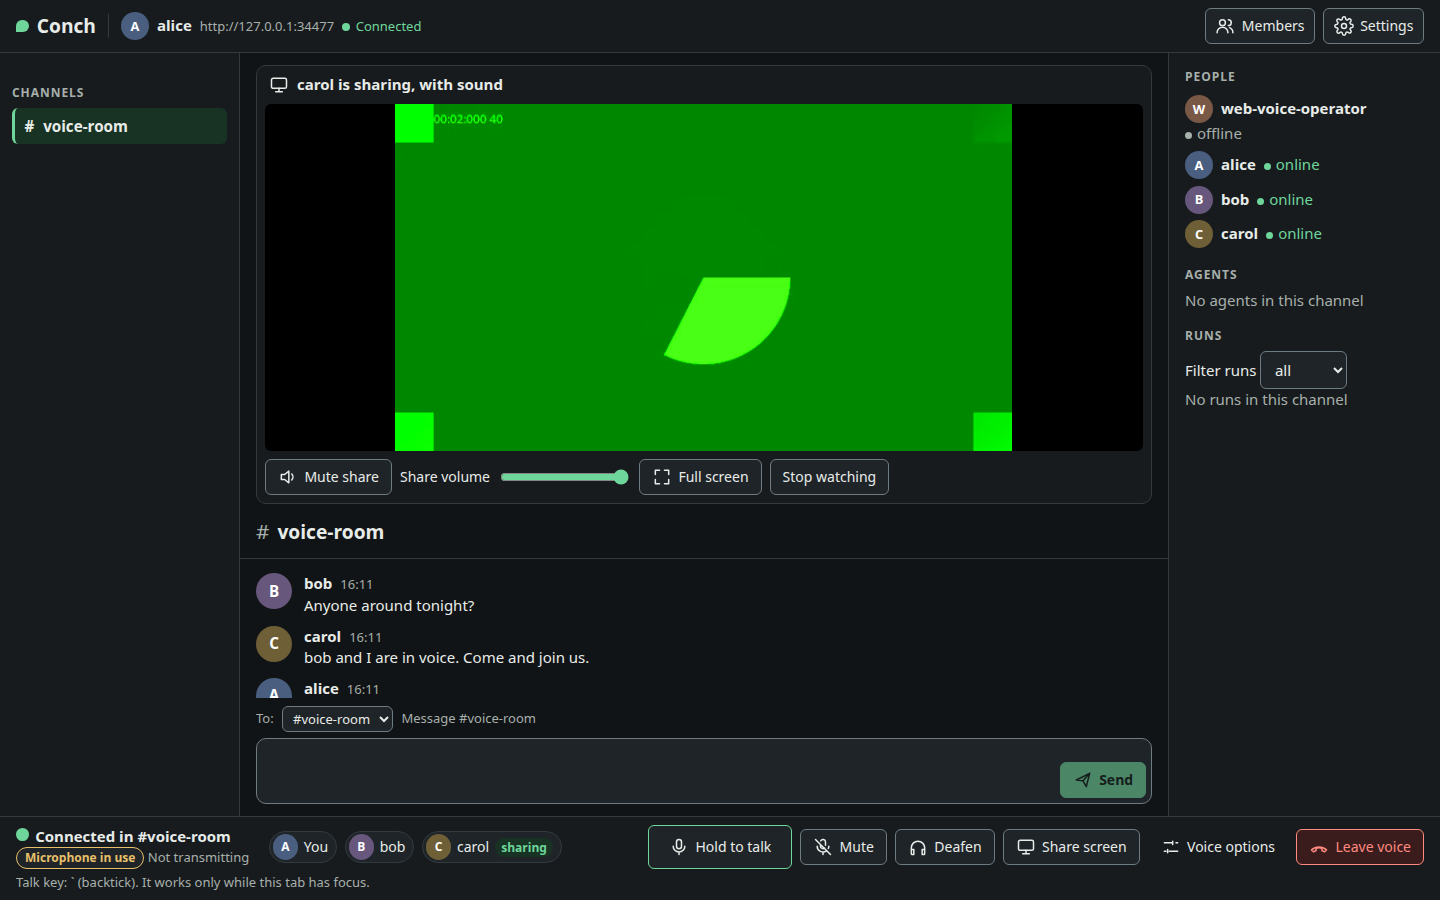
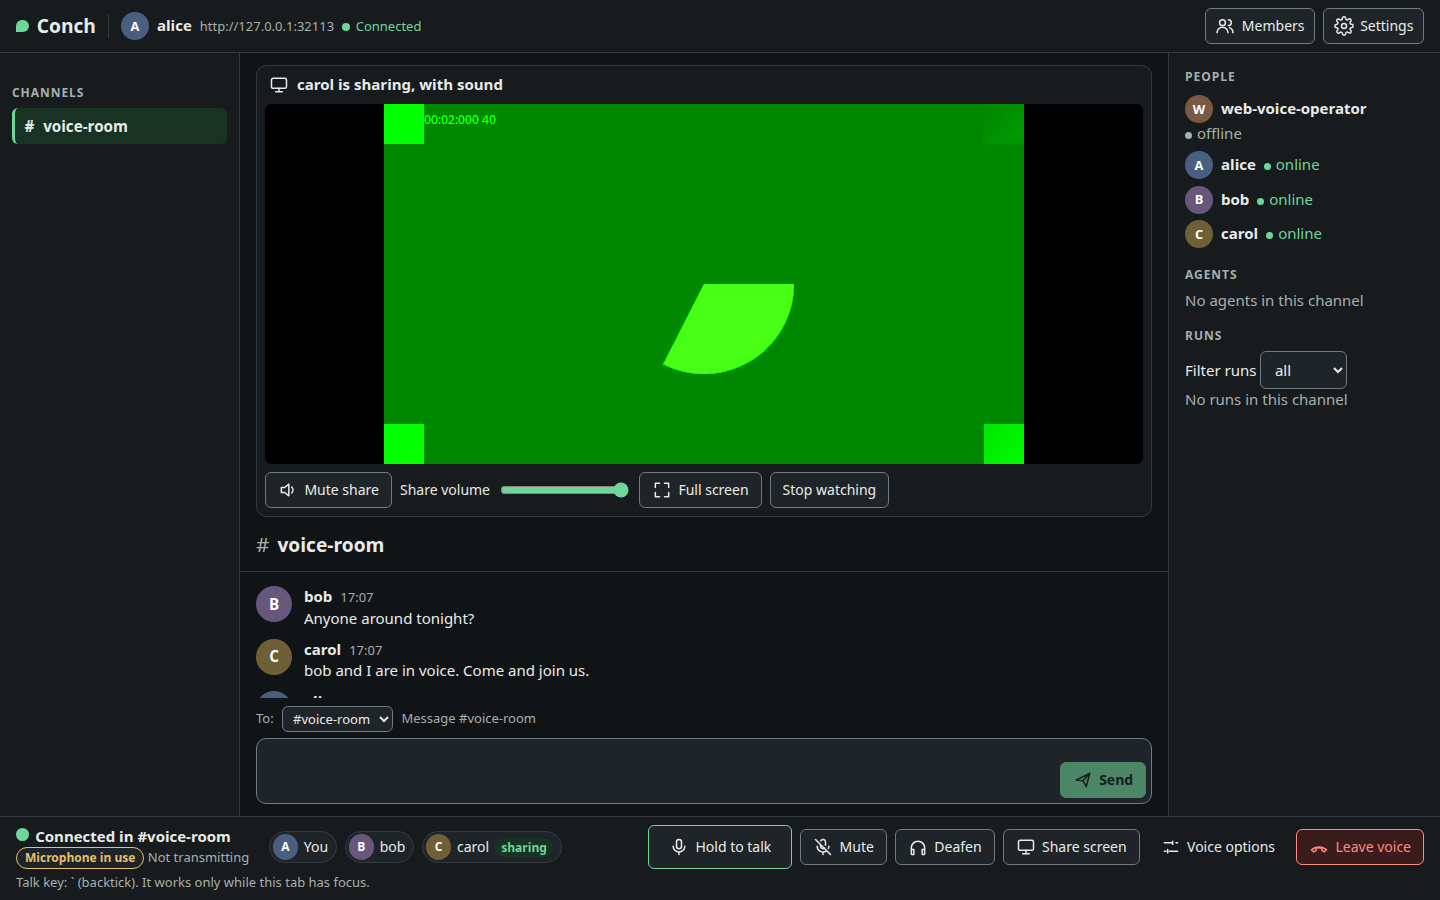
issue #536: the conversation keeps its measured height while watching; the picture gives way
CI's fonts wrapped the share controls and voice strip taller than the
fixed --stage-reserve allowed, so at 360x740 the strip covered the
composer. While a share is watched the centre column is now a two-row
grid: the conversation's minimum is what its header, log minimum and
composer measure, and the stage takes the rest, its picture shrinking to
3rem and the stage scrolling below that. No fixed reserve remains.

diff --git a/web/src/app.css b/web/src/app.css
@@ -37,9 +37,6 @@
   --s6: 2rem;
   --radius-sm: 6px;
   --radius: 10px;
-  /* The height the watch view leaves for its own controls and for the
-     conversation under it: the header, a few messages and the composer. */
-  --stage-reserve: 26rem;
   color-scheme: dark;
 }
 
@@ -540,8 +537,6 @@ label {
   /* Should the stage and the conversation not both fit, the column scrolls:
      nothing is ever drawn under the voice strip. */
   overflow-y: auto;
-  /* The watch view's picture is sized to what is left of this column. */
-  container-type: size;
 }
 
 .conversation {
@@ -787,6 +782,8 @@ label {
 
 .log {
   flex: 1;
+  /* Its messages never make the column taller: it scrolls instead. */
+  contain: size;
   overflow-y: auto;
   padding: var(--s2) var(--s2) var(--s3);
 }
@@ -1330,17 +1327,41 @@ label {
 }
 
 /* Screen share (issue #444): the watch view, on the stage above the
-   conversation. The picture is never wider than its column and leaves room
-   for the conversation, and fills the screen when made full screen. */
+   conversation. The picture is never wider than its column, and fills the
+   screen when made full screen.
+
+   While a share is watched the centre column is two rows: the conversation
+   gets at least what its header, a few lines and the composer need, whatever
+   the fonts make that, and the stage gets the rest, its picture shrinking to
+   fit (issue #536). Nothing is reserved by a fixed height. */
+.centre:has(> .stage:not(:empty)) {
+  display: grid;
+  grid-template-rows: minmax(0, auto) minmax(min-content, 1fr);
+}
+
 .stage:empty {
   display: none;
 }
 
 .stage {
+  display: flex;
+  flex-direction: column;
+  min-height: 0;
+  /* With very little room the picture is as small as it goes; the stage then
+     scrolls, so its controls are still reachable. */
+  overflow-y: auto;
   padding: var(--s3) var(--s4) 0;
 }
 
+/* Its title and controls keep their height; the picture's row gives way,
+   down to 4rem. */
 .share-view {
+  display: grid;
+  flex: 0 1 auto;
+  grid-template-rows: auto minmax(3rem, 1fr);
+  grid-auto-rows: auto;
+  /* It may be shorter than its picture: the picture's row is what gives. */
+  min-height: 0;
   padding: var(--s2);
   background: var(--surface);
   border: 1px solid var(--border);
@@ -1362,6 +1383,7 @@ label {
 
 .share-frame {
   position: relative;
+  min-height: 0;
   background: #000000;
   border-radius: var(--radius-sm);
   overflow: hidden;
@@ -1370,7 +1392,8 @@ label {
 .share-frame video {
   display: block;
   width: 100%;
-  max-height: min(55vh, max(5rem, calc(100cqh - var(--stage-reserve))));
+  height: 100%;
+  max-height: 40vh;
   object-fit: contain;
 }
 
@@ -1641,10 +1664,6 @@ label {
     min-width: 0;
   }
 
-  :root {
-    --stage-reserve: 16rem;
-  }
-
   /* While a share is watched on a phone, the picture, a few lines of the
      conversation and the composer share the column: the channel's name is
      already in the row above, so its heading is only read out. */
@@ -1705,10 +1724,6 @@ label {
   .lobby {
     height: auto;
     min-height: 100vh;
-  }
-
-  .centre {
-    container-type: normal;
   }
 
   .share-frame video {

diff --git a/docs/design/browser-ui-polish.md b/docs/design/browser-ui-polish.md
@@ -50,7 +50,7 @@ illustrative, and none of them is reproduced.
 
 | Element | Now | Why |
 | --- | --- | --- |
-| Large stage, "X is sharing", stream volume, full screen | The watch view on the stage at the top of the centre column: who is sharing (and whether with sound), the picture, Mute share, Share volume, Full screen, Stop watching | Same controls as #444. The picture is sized to leave the conversation a header, a few messages and the composer. |
+| Large stage, "X is sharing", stream volume, full screen | The watch view on the stage at the top of the centre column: who is sharing (and whether with sound), the picture, Mute share, Share volume, Full screen, Stop watching | Same controls as #444. The picture gives way first: the conversation keeps what its header, a few lines and the composer need. |
 | "1080p" badge | Not shown | The client does not know the layer it receives. |
 | Compact participant strip | The roster chips | — |
 | Chat beside the stage | The conversation below the stage; the members column where it was | The image's right column is captions, a later feature. |
@@ -62,7 +62,7 @@ illustrative, and none of them is reproduced.
 | --- | --- |
 | 1100 px and wider | Top bar; channels (15rem), the centre, members (17rem; Members folds it away); the voice strip across the bottom. Each column scrolls on its own; the page does not. |
 | 700 to 1099 px | Channels and the centre. Members opens a panel over the right side (UX-22: the right panel goes first). |
-| Below 700 px | One column. The channels are one row under the top bar that scrolls sideways within itself, so the open channel stays in sight and one tap opens another. The top bar's and the strip's buttons show icons, their names hidden on screen but still read out; Send likewise. Stop sharing and Leave voice keep their words. Voice options, open, scroll inside the strip (at most 40% of the height). While a share is watched, the channel heading is read out only (the row above names the channel) and the picture shrinks first, so the composer stays on screen at 390×844 and 360×740. |
+| Below 700 px | One column. The channels are one row under the top bar that scrolls sideways within itself, so the open channel stays in sight and one tap opens another. The top bar's and the strip's buttons show icons, their names hidden on screen but still read out; Send likewise. Stop sharing and Leave voice keep their words. Voice options, open, scroll inside the strip (at most 40% of the height). While a share is watched, the channel heading is read out only (the row above names the channel). |
 | Under 560 px tall (200% zoom of 1440×900 is 720×450) | The page scrolls as a document instead of fitting every column to the window; the conversation keeps a height of its own, so it scrolls and loads older messages as before, and the strip is at the end of the page. |
 
 Settings and, below 1100 px, Members are panels over the page with a dimmed
@@ -74,13 +74,24 @@ focus cannot go behind it. Members is not modal. A members column left open
 closes when the window narrows, rather than cover the page, and focus that was
 in it goes to Members.
 
+**Room for the conversation while watching.** While a share is watched the
+centre column is a grid of two rows: `minmax(0, auto)` for the stage and
+`minmax(min-content, 1fr)` for the conversation. The conversation's least
+height is what its header, the log's minimum and the composer measure with the
+fonts actually in use (the log has `contain: size`, so its messages never count);
+the stage gets the rest. In the watch view the title and the controls keep
+their height and the picture's row gives way, down to 3rem; with less room than
+that the stage scrolls. Nothing is a fixed reserve, so other font metrics (CI's
+runner wraps the share controls onto two rows) move the picture, not the
+composer. The composer is on screen without scrolling at 390×844 and 360×740
+(checked in 12-screen-share, and by hand with every rem made 19 px).
+
 **Media continuity.** The voice section is rendered once, in the strip, and
 never moves: panels, the members column and the window's width change classes
 only. The watch view is drawn on the stage with a React portal from that same
 section (`web/src/stage.ts`), so it is one component instance through every
-layout change, and its `<video>` is attached to the room once. If the stage and
-the conversation do not both fit (a phone, watching), the centre column scrolls;
-nothing is drawn under the strip.
+layout change, and its `<video>` is attached to the room once. The centre
+column also scrolls as a last resort, so nothing is ever drawn under the strip.
 
 The navigation is not a drawer on a phone, though the issue suggested
 collapsible navigation: a drawer would hide which channel is open and add a tap
@@ -108,7 +119,6 @@ so form controls and scroll bars match.
 | `--warn` | `#e8c06a` | Reconnecting, stale, Not confirmed, Microphone in use, a narrowed audience |
 | `--focus` | `#8ec5ff` | Focus outline (2 px, offset 2 px) |
 | `--hue-0` … `--hue-5` | six muted hues | Initials, chosen by principal id; white letter |
-| `--stage-reserve` | 26rem (16rem on a phone) | Height the watch view leaves for its controls and the conversation |
 
 Type: the system UI font (the CSP allows no web font, and none is needed),
 15 px base, 1.45 line height; 0.8125 rem for times and hints; weight 600 for
